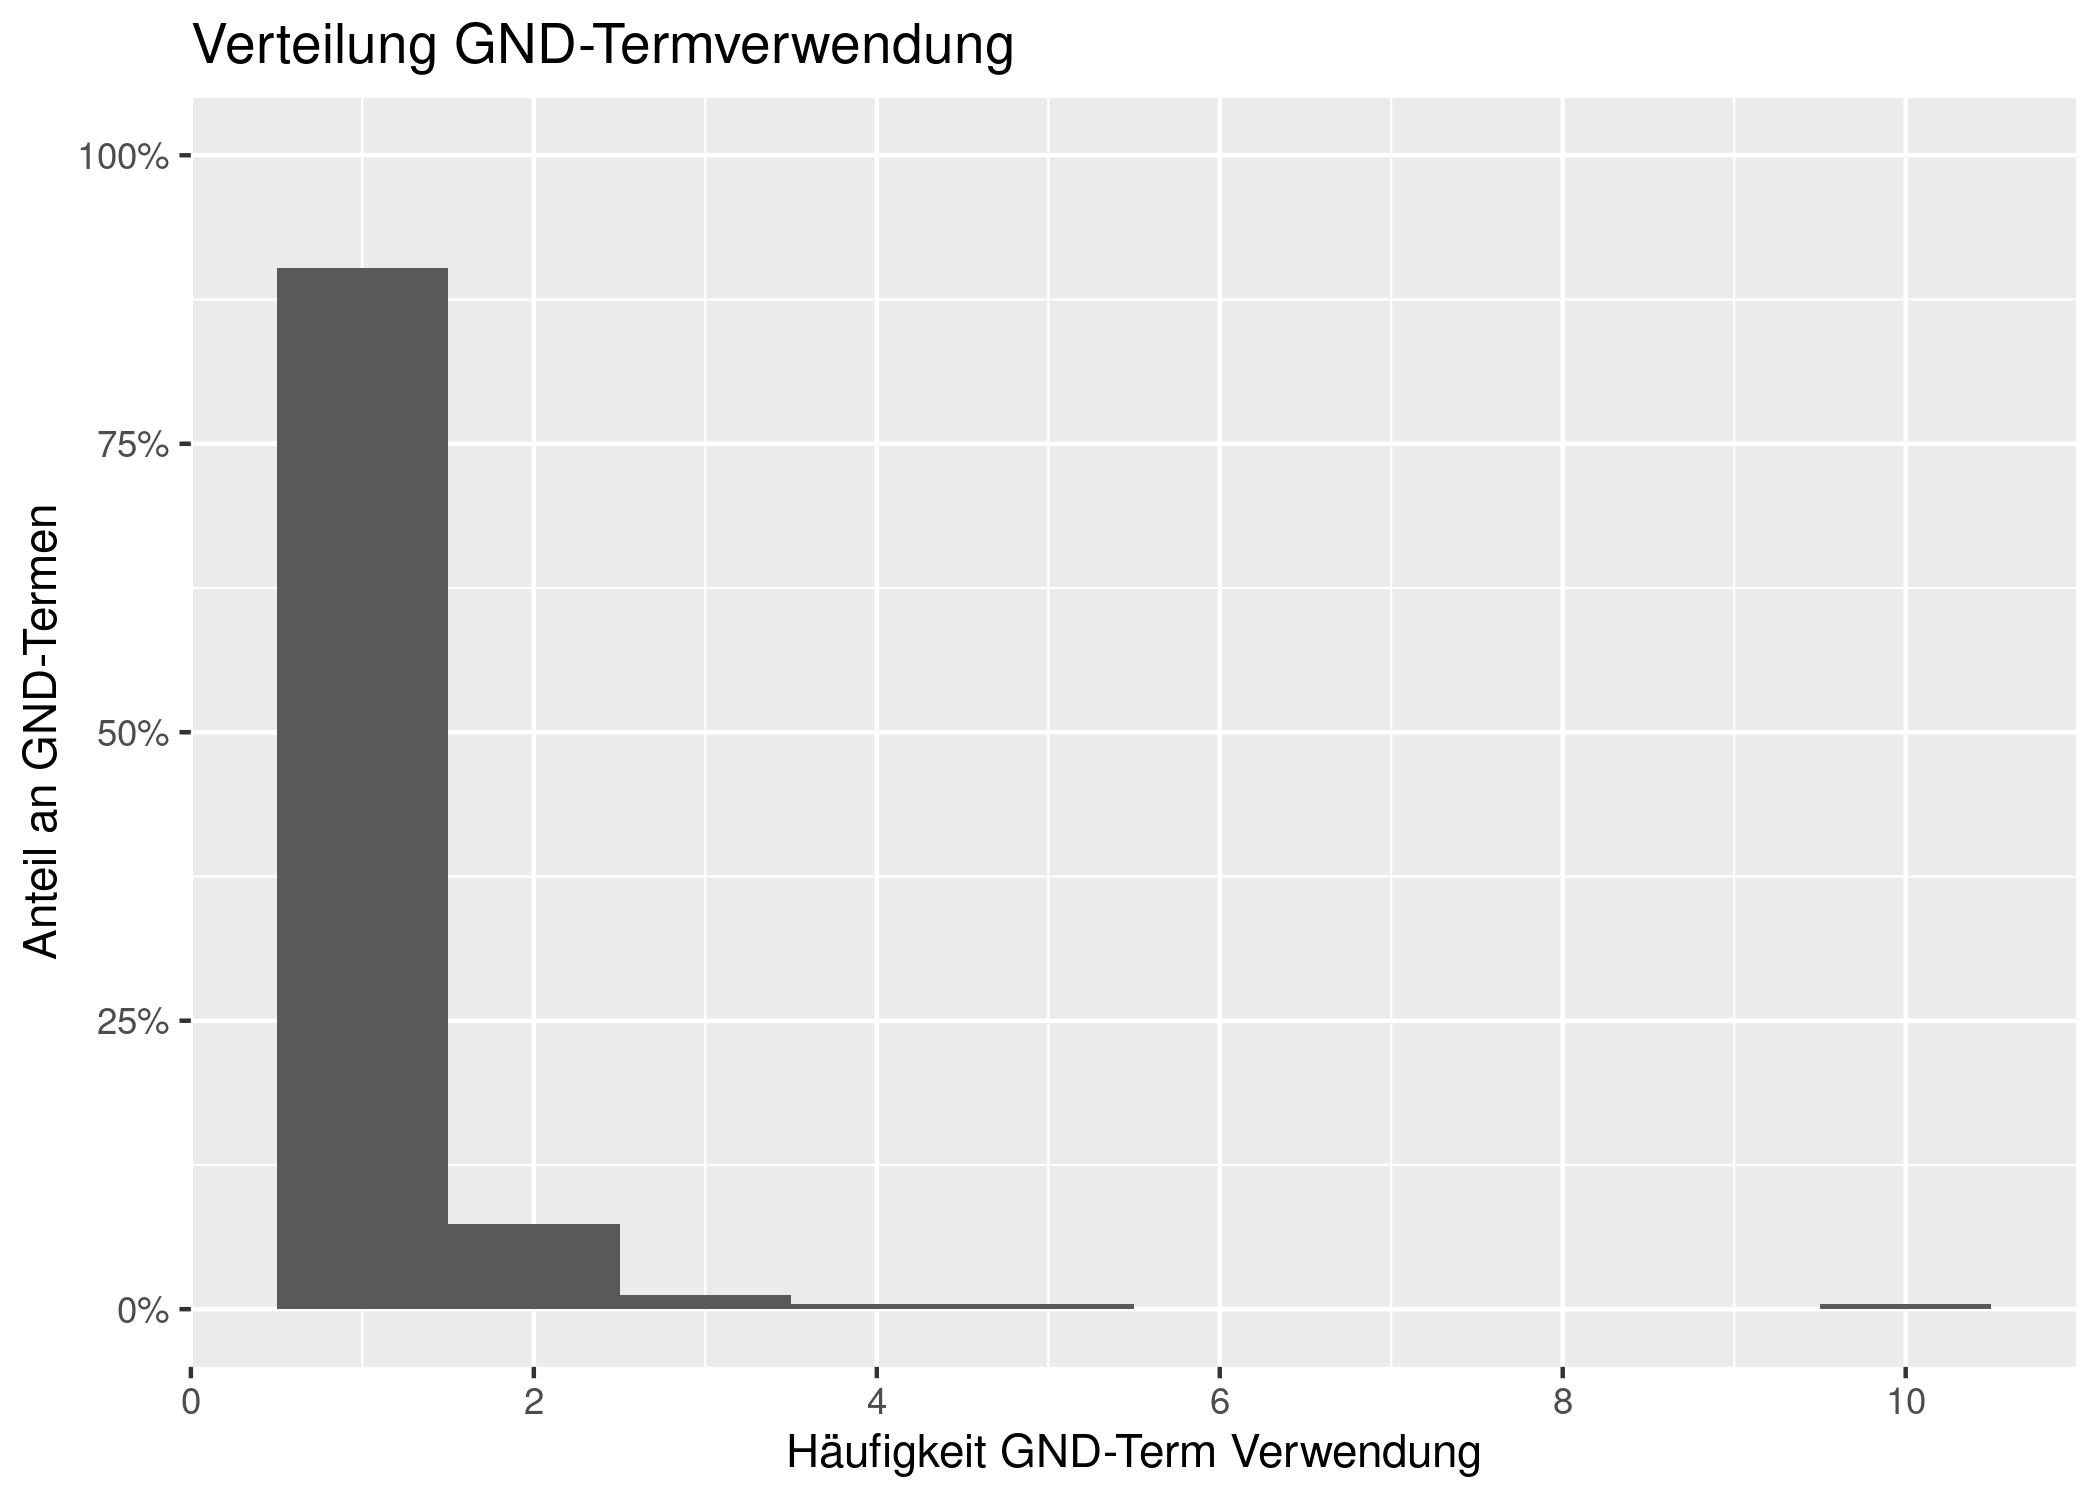
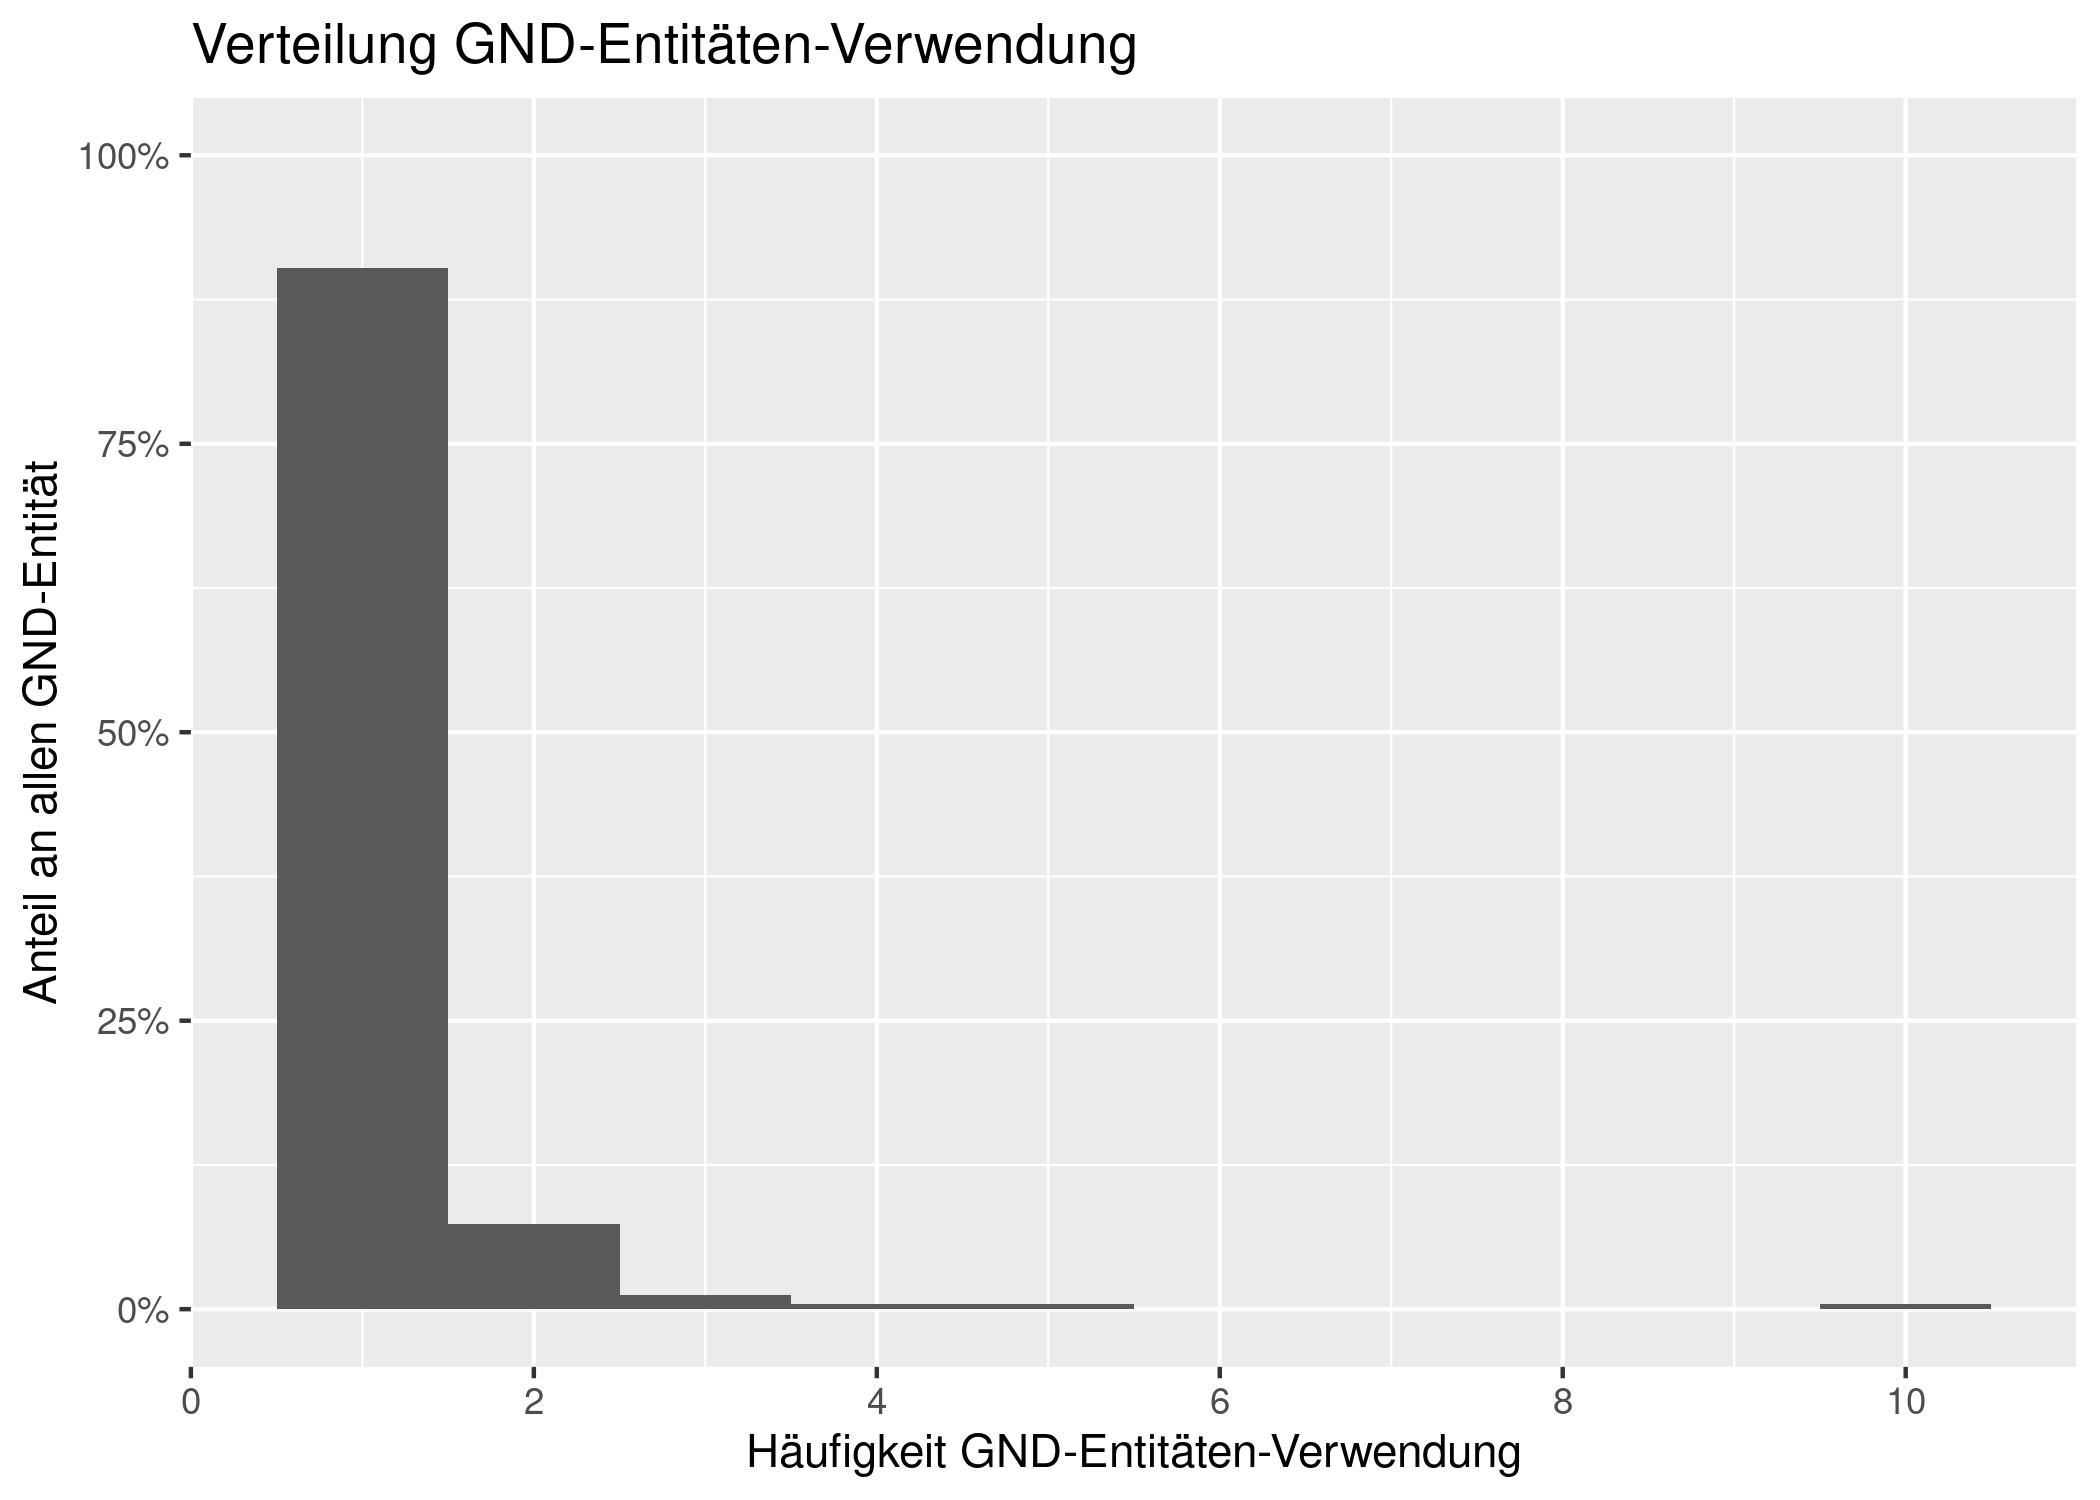
* change file names * minor corrections in text * switch rmd-output format to md_document

Changed region(s): [[0.2786, 0.0, 0.5571, 0.0613], [0.3405, 0.9507, 0.7429, 0.9813], [0.0, 0.3067, 0.031, 0.6747]]

diff --git a/docs/book/src/de/using-pica-rs-with-rmarkdown/rmarkdown.md b/docs/book/src/de/using-pica-rs-with-rmarkdown/rmarkdown.md
@@ -1,0 +1,143 @@
+# Verwendung von pica-rs zur Datenanalyse mit RMarkdown
+
+Beispielhaft wird in diesem Tutorial demonstriert, wie das Toolkit
+pica-rs für Datenanalysen mit
+[RMarkdown](https://rmarkdown.rstudio.com/) eingesetzt werden kann.
+Datenabfrage mit `pica-rs` und Datenanalyse mit `R` können so in einem
+gemeinsamen Dokument kombiniert werden.
+
+``` r
+# Setup: 
+# Globale Einstellungen für das Ausführen von Code-Blöcken durch knitr
+knitr::opts_chunk$set(echo = TRUE, message = FALSE, dev="jpeg", dpi = 300, fig.path = "plots/")
+# Laden von R-Paketen
+library(tidyverse) # beinhaltet u.a. readr, dplyr und ggplot2
+```
+
+## Datenabfrage
+
+Zunächst erzeugen wir mit folgender Pica-Abfrage von der Datei
+`testdaten.dat` eine CSV-Datei mit allen Tupeln aus Titel-idn und
+GND-Entität-idn. Um die GND-Entitäten abzurufen, die mit einem
+Titeldatensatz verknüpft sind, muss das Listenfeld `041A` mit
+`pica select` ausgelesen werden. Sind mehrere GND-Entitäten in einem
+Titel-Datensatz vohanden, expandiert `pica select` diese automatisch,
+d.h. im Output `title_idn_gnd_idn.csv` kommen auch IDN-Nummern von
+Titeln ggf. mehrfach vor (je eine Zeile pro GND-Entität).
+
+``` bash
+pica select -s --no-empty-columns -H "idn_titel, idn_sw"  "003@.0,041A/*.9" \
+  ../testdaten.dat  -o title_idn_gnd_idn.csv 
+```
+
+Die Datei `title_idn_gnd_idn.csv` kann ggf. auch nur temporär erzeugt
+werden, wenn ein Zwischenspeichern des Outputs von `pica-rs`nicht
+gewünscht ist. Das Einlesen der Date in R erfolgt über die üblichen
+Funktionen, z.B. aus dem `tidyverse`-Unterpaket `readr`.
+
+``` r
+title_idn_gnd_idn <- read_csv("title_idn_gnd_idn.csv", 
+                              col_types = list(
+                                idn_titel = col_factor(),
+                                idn_sw = col_factor()))
+```
+
+## Datenanalyse
+
+Wir wollen die abgefragten Daten im Folgenden beispielhaft analysieren:
+Zunächst erzeugen wir eine zusammenfassende Zählstatistik:
+
+``` r
+count_summary <- title_idn_gnd_idn %>% 
+  summarise(
+    n_title = n_distinct(idn_titel), 
+    n_terms = n_distinct(idn_sw)
+    )
+```
+
+In dem so erzeugten Datensatz gibt es 245 verschiedene GND-Entitäten,
+die an mindestens einen von 103 verschiedenen Titel-Datensätzen vergeben
+wurden.
+
+Als nächstes beantworten wir die Frage, wie viele GND-Entitäten pro
+Titel im Durchschnitt verwendet werden:
+
+``` r
+sw_per_title <- title_idn_gnd_idn %>% 
+  group_by(idn_titel) %>% 
+  summarise(n_sw = n())
+
+card_d <- sw_per_title %>% 
+  summarise(
+    n_title = n(), 
+    avg_count = sum(n_sw)/n_title
+    ) %>% 
+  pull(avg_count)
+```
+
+Im Mittel liegen 2.77 GND-Entitäten pro Titel vor.
+
+Wir wollen nun die IDN-Nummern der am häufigsten verwendeten
+GND-Entitäten ausgeben:
+
+``` r
+gnd_term_freq <- title_idn_gnd_idn %>% 
+  group_by(idn_sw) %>% 
+  summarise(freq = n()) %>% 
+  arrange(desc(freq))
+
+head(gnd_term_freq, n = 10) %>% 
+  knitr::kable()
+```
+
+| idn_sw    | freq |
+|:----------|-----:|
+| 040118827 |   10 |
+| 040305503 |    5 |
+| 040538818 |    4 |
+| 041245113 |    3 |
+| 041248538 |    3 |
+| 041879635 |    3 |
+| 040509265 |    2 |
+| 040013073 |    2 |
+| 118636405 |    2 |
+| 040526925 |    2 |
+
+## Datenvisualisierung
+
+Über alle Schlagwörter betrachtet sieht die Verteilung der
+GND-Entitäten-Verwendung wie folgt aus:
+
+``` r
+g <- ggplot(gnd_term_freq, aes(x = freq)) + 
+  geom_histogram(aes(y = (..count..)/sum(..count..)), binwidth = 1) + 
+  scale_y_continuous(labels = scales::percent, limits = c(0,1)) + 
+  scale_x_continuous(breaks = c(0,2,4,6,8,10)) + 
+  xlab("Häufigkeit GND-Entitäten-Verwendung") + 
+  ylab("Anteil an allen GND-Entität") + 
+  ggtitle("Verteilung GND-Entitäten-Verwendung")
+
+g
+```
+
+![](plots/term_dist-1.jpeg)
+
+Das Histogramm zeigt, dass die meisten GND-Entitäten nur einmal
+verwendet werden. Einzelne Terme werden aber auch bis zu 10-mal
+verwendet.
+
+Eine andere Visualisierungsform des gleichen Sachverhalts ist Folgende:
+
+``` r
+gnd_term_freq <- gnd_term_freq %>%
+  mutate(index = 1:n())
+
+ggplot(gnd_term_freq, aes(x = index, y = freq)) +
+    geom_point() +
+    scale_y_log10() +
+    ylab("Häufigkeit je GND-Entität") +
+    xlab("Index GND-Entitäten (sortiert nach Häufigkeit)") + 
+    ggtitle("Long-Tail Darstellung")
+```
+
+![](plots/plot_freq_-1.jpeg)

diff --git a/docs/book/src/de/SUMMARY.md b/docs/book/src/de/SUMMARY.md
@@ -1,7 +1,7 @@
 # Summary
 
 - [Beginner Tutorial](./beginner-tutorial.md)
-- [Verwendung in RMarkdown](./using-pica-rs-with-rmarkdown/using-pica-rs-with-rmarkdown.md)
+- [Verwendung in RMarkdown](./using-pica-rs-with-rmarkdown/rmarkdown.md)
 - [Referenz](./referenz/index.md)
   - [Matcher](./referenz/matcher.md)
   - [Occurrence](./referenz/occurrence.md)
